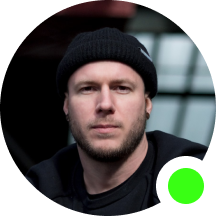
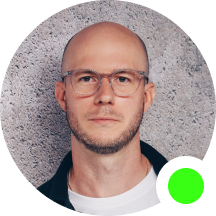
Case Teaser Small and Overview height fix

diff --git a/components/content/CaseTeaserSmall.vue b/components/content/CaseTeaserSmall.vue
@@ -1,0 +1,88 @@
+<template>
+  <NuxtLink :to="link" class="case__teaser flex flex-col">
+    <div class="case__teaser-preview">
+      <img :src="imageSource" :alt="imageDescription" />
+    </div>
+    <div class="case__teaser-body flex-grow p-6 sm:p-8 lg:p-12 bg-surface">
+      <Type variant="label-large" class="mb-4 text-onSurfaceSubdued">
+        {{ type }}
+      </Type>
+      <Type variant="title-small">{{ title }}</Type>
+      <Type
+        variant="headline-small"
+        class="text-onSurfaceSubdued mb-8 md:mb-12"
+      >
+        {{ subtitle }}
+      </Type>
+      <Icon name="arrowright" class="w-8 h-8 md:w-10 md:h-10" />
+    </div>
+  </NuxtLink>
+</template>
+
+<script>
+export default {
+  props: {
+    link: {
+      type: String,
+      required: true,
+    },
+    type: {
+      type: String,
+      required: true,
+    },
+    title: {
+      type: String,
+      required: true,
+    },
+    subtitle: {
+      type: String,
+      required: true,
+    },
+    imageSource: {
+      type: String,
+      required: true,
+    },
+    imageDescription: {
+      type: String,
+      required: true,
+    },
+  },
+};
+</script>
+
+<style lang="scss" scoped>
+.case__teaser {
+  .case__teaser-body {
+    @apply rounded-b-2xl;
+
+    svg {
+      transition: all 500ms cubic-bezier(0.25, 0.46, 0.45, 0.94);
+    }
+  }
+  .case__teaser-preview {
+    @apply rounded-t-2xl;
+    overflow: hidden;
+
+    img {
+      transition: all 500ms cubic-bezier(0.25, 0.46, 0.45, 0.94);
+      width: 100%;
+      height: 100%;
+      object-fit: cover;
+    }
+  }
+
+  &:hover {
+    cursor: pointer;
+    .case__teaser-body {
+      svg {
+        @apply ml-4;
+      }
+    }
+    .case__teaser-preview {
+      img {
+        transform: scale(1.25);
+      }
+    }
+  }
+}
+</style>

diff --git a/components/content/TextImageRight.vue b/components/content/TextImageRight.vue
@@ -3,7 +3,7 @@
     class="text__image-right wrapper grid grid-cols-1 md:grid-cols-12 padding__v-large"
   >
     <div
-      class="text md:col-span-6 lg:col-span-7 bg-surface p-6 lg:p-12 rounded-b-2xl md:rounded-l-2xl md:rounded-r-none order-2 md:order-1"
+      class="text md:col-span-6 lg:col-span-6 bg-surface p-6 lg:p-12 rounded-b-2xl md:rounded-l-2xl md:rounded-r-none order-2 md:order-1"
     >
       <div class="icons flex mb-8 md:mb-12">
         <Icon name="star" />
@@ -20,10 +20,10 @@
         {{ message }}
       </Type>
     </div>
-    <div class="image md:col-span-6 lg:col-span-5 order-1 md:order-2">
+    <div class="image md:col-span-6 lg:col-span-6 order-1 md:order-2">
       <img
-        src="/img/img3.png"
-        alt=""
+        :src="imageSource"
+        :alt="imageDescription"
         class="md:h-full rounded-t-2xl md:rounded-r-2xl md:rounded-l-none object-cover"
       />
     </div>
@@ -42,6 +42,14 @@ export default {
       required: true,
     },
     message: {
+      type: String,
+      required: true,
+    },
+    imageSource: {
+      type: String,
+      required: true,
+    },
+    imageDescription: {
       type: String,
       required: true,
     },

diff --git a/components/content/CaseOverviewSmall.vue b/components/content/CaseOverviewSmall.vue
@@ -1,0 +1,43 @@
+<template>
+  <div class="case__overview wrapper padding__v-large">
+    <SectionHeader :title="sectionTitle" :counter="sectionCounter" />
+    <div class="grid grid-cols-1 md:grid-cols-2 gap-x-8 gap-y-20">
+      <CaseTeaserSmall
+        v-for="project in data.projects"
+        :key="project.title"
+        :link="project.link"
+        :type="project.type"
+        :title="project.title"
+        :subtitle="project.subtitle"
+        :imageSource="project.imageSource"
+        :imageDescription="project.imageDescription"
+      />
+    </div>
+    <Button v-if="cta" variant="primary" to="work" class="mr-4">{{
+      cta
+    }}</Button>
+  </div>
+</template>
+
+<script>
+export default {
+  props: {
+    sectionTitle: {
+      type: String,
+      required: true,
+    },
+    sectionCounter: {
+      type: String,
+    },
+    data: {
+      type: Object,
+      required: true,
+    },
+    cta: {
+      type: String,
+    },
+  },
+};
+</script>
+
+<style lang="scss" scoped></style>

diff --git a/components/Accordion.vue b/components/Accordion.vue
@@ -107,7 +107,7 @@ export default {
     transition: all 0.3s ease-in-out;
 
     p {
-      @apply px-14 pt-4 pb-10;
+      @apply lg:px-14 pt-4 pb-10;
     }
   }
 }

diff --git a/content/about.md b/content/about.md
@@ -33,6 +33,18 @@ data:
 ---
 ::
 
+
+::text-image-right
+---
+label: Besides work…
+title: I love cycling, vietnamese coconut coffee and plants.
+message: Outside of work you can often meet me on my road bike in the greater Hamburg area or even crossing the Alps. I draw inspiration and strength primarily from nature, my love for mountaineering and the photography of impressive architecture. 
+imageSource: /img/Fabian-Heußner_Portrait.png
+imageDescription: Profile picture Fabian Heußner
+---
+::
+
+
 ::about-experience
 ---
 title: Experience gained
@@ -58,10 +70,3 @@ data:
 ---
 ::
 
-::text-image-right
----
-label: Besides work…
-title: I love cycling, vietnamese coconut coffee and plants.
-message: Outside of work you can often meet me on my road bike in the greater Hamburg area or even crossing the Alps. I draw inspiration and strength primarily from nature, my love for mountaineering and the photography of impressive architecture. 
----
-::

diff --git a/content/work.md b/content/work.md
@@ -1,9 +1,10 @@
 
 ::stage-work
 ---
-title: I've worked for agencies and corporates.
+title: I've worked with both agencies and corporates.
 cta: See all work
 ---
+<!-- I've worked for agencies and corporates. -->
 <!-- I've worked for both agencies and corporates. -->
 ::
 
@@ -14,7 +15,7 @@ sectionTitle: Selected clients
 ---
 ::
 
-::case-overview
+::case-overview-small
 ---
 sectionTitle: Selected work
 sectionCounter: (5)
@@ -24,7 +25,7 @@ data:
       - link: /work/check-in-check-out
         type: Mobile app
         title: Check in check out
-        subtitle: Convience when doing grocery shopping
+        subtitle: Convience when
         imageSource: /img/img3.png
         imageDescription: Some alt text goes here
       - link: /work/osram-1
